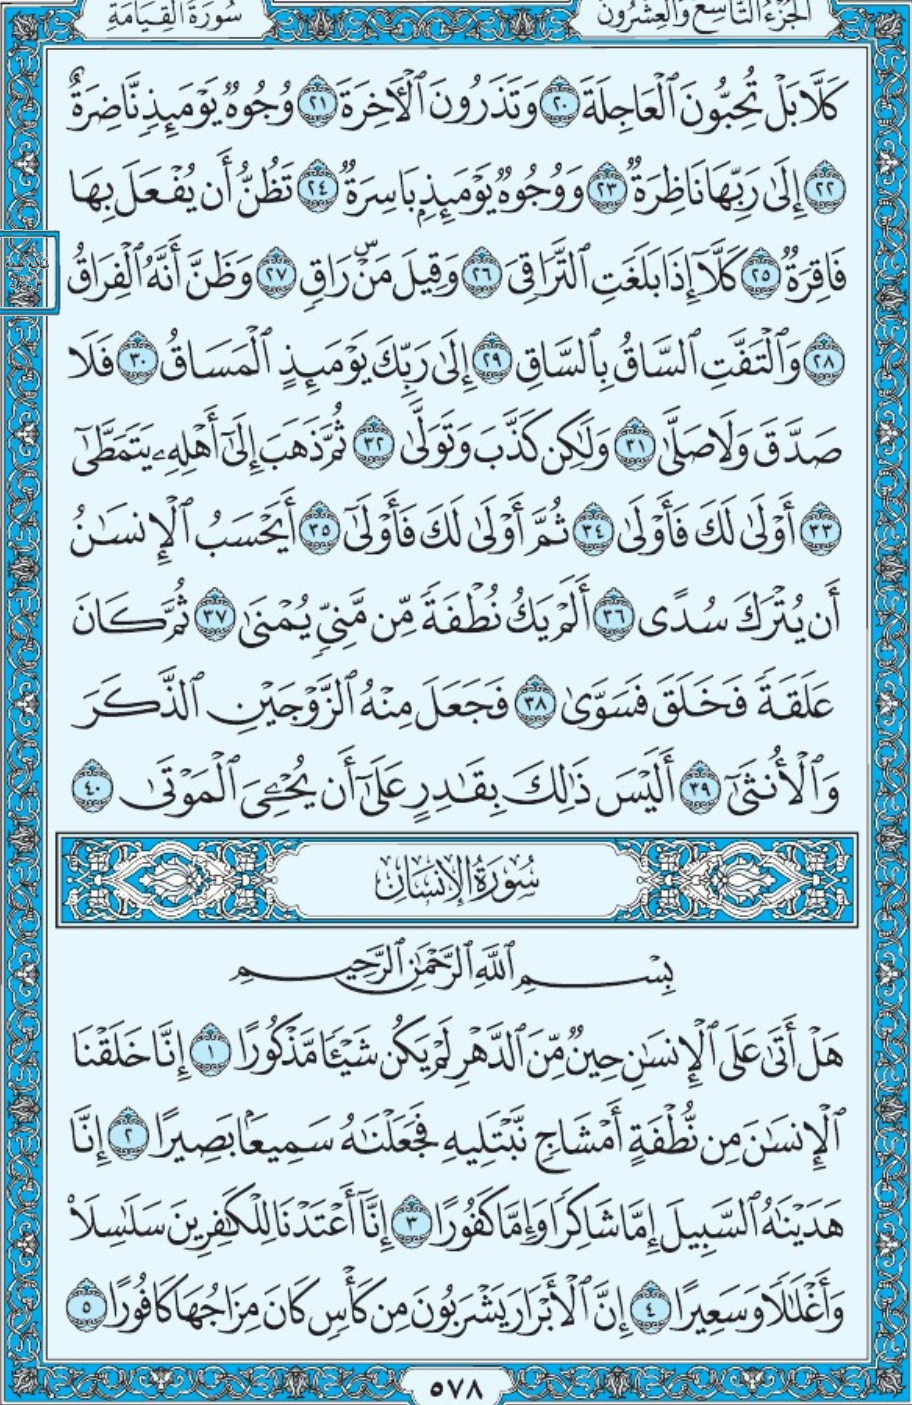
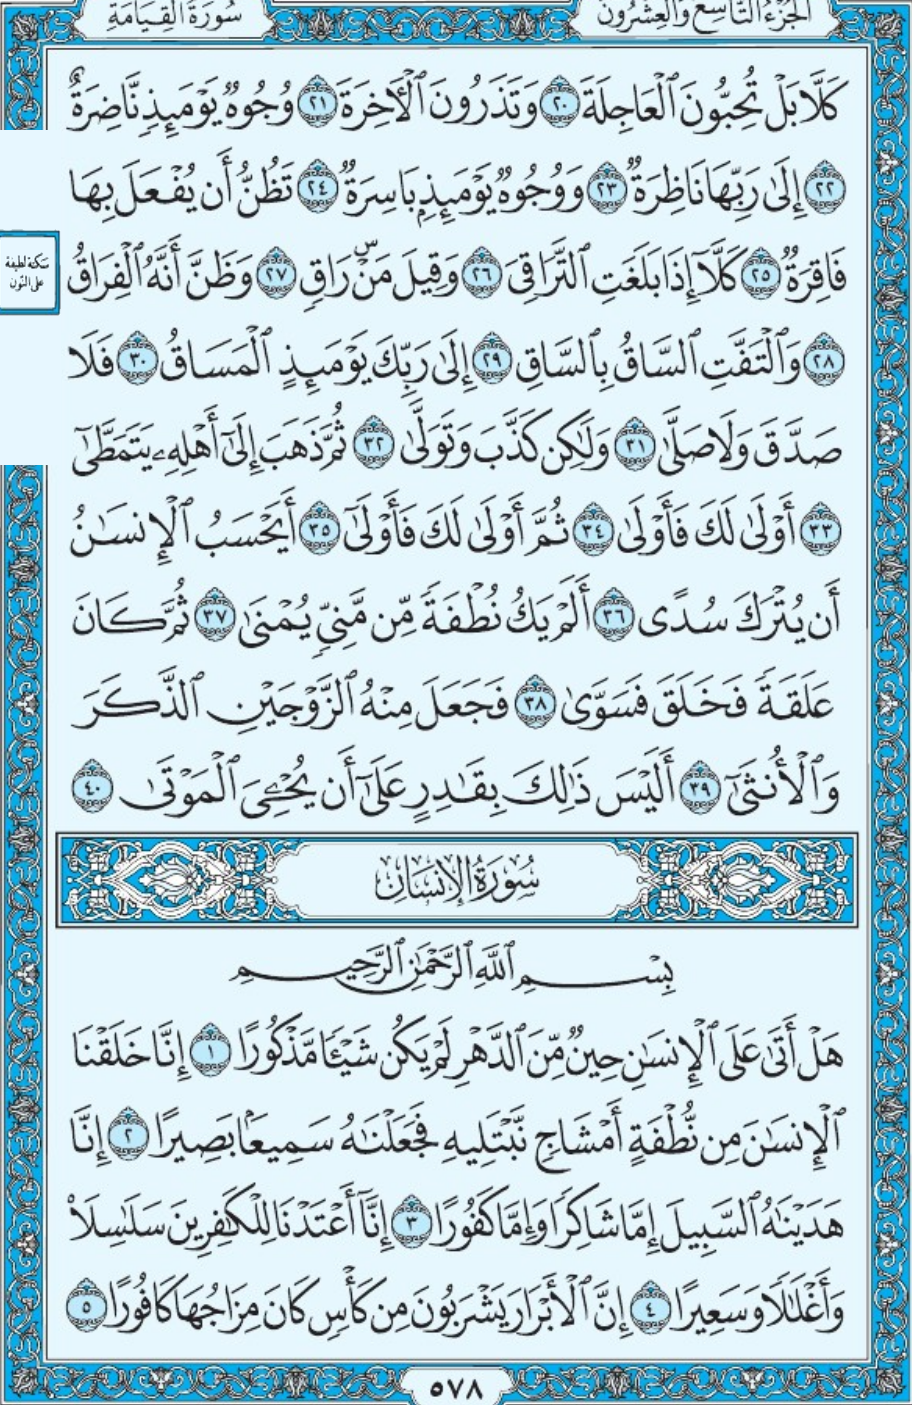
multiple lr white background added

Changed region(s): [[0.0, 0.0918, 0.0614, 0.3367]]

diff --git a/add_bg_in_trans_img.py b/add_bg_in_trans_img.py
@@ -2,7 +2,8 @@ from PIL import Image
 import detect_lr_position
 
 
-def overlay_images(overlay_top_path, output_path, position1=(0, 0), position2=(0, 0)):
+def overlay_images(overlay_top_path, output_path, uniq_detected_points,
+                   position_bg=(0, 0), position2=(0, 0)):
     # Open the background and overlay images
     trans_top_lr = Image.open(overlay_top_path)
 
@@ -16,8 +17,11 @@ def overlay_images(overlay_top_path, output_path, position1=(0, 0), position2=(0
     # Create a copy of the background image
     result = trans_background.copy()
 
-    # Overlay the first image
-    result.paste(white_bg, position1, white_bg)
+    point_count = len(uniq_detected_points)
+    for x in range(0, point_count):
+        # Overlay the white_bg image
+        # result.paste(white_bg, position_bg, white_bg)
+        result.paste(white_bg, (position_bg[0], uniq_detected_points[x][1] - 95), white_bg)
 
     # Overlay the second image
     result.paste(overlay2, position2, overlay2)
@@ -33,10 +37,9 @@ def overlay_image_bg(lr_img_path, trans_img_path, output_img_path):
 
     if len(uniq_detected_points) > 0:
         # if icon available
-        detected_point = uniq_detected_points[0][1]
-
-        overlay_images(trans_img_path, output_img_path,
-                       position1=(0, detected_point - 95), position2=(0, 0))
+        # detected_point = uniq_detected_points[0][1]
+        # - 95
+        overlay_images(trans_img_path, output_img_path, uniq_detected_points)
     else:
         # save same image
         img = Image.open(trans_img_path)

diff --git a/detect_lr_position.py b/detect_lr_position.py
@@ -32,10 +32,10 @@ def get_all_detected_point(loc):
     return uniq_detected_points
 
 
-def template_matching(image_path, save_file_name):
+def template_matching(image_path, save_file_name, sample_path):
     img_rgb = cv2.imread(image_path)
     img_gray = cv2.cvtColor(img_rgb, cv2.COLOR_BGR2GRAY)
-    template = cv2.imread('template/sample3.png', 0)
+    template = cv2.imread(sample_path, 0)
     h, w = template.shape[::]
 
     res = cv2.matchTemplate(img_gray, template, cv2.TM_CCOEFF_NORMED)
@@ -56,7 +56,7 @@ def template_matching(image_path, save_file_name):
         cv2.rectangle(img_rgb, pt, (pt[0] + w, pt[1] + h), (0, 0, 255), 5)  # Red rectangles with thickness 2.
 
     # TODO
-    cv2.imwrite('' + save_file_name, img_rgb)
+    # cv2.imwrite('' + save_file_name, img_rgb)
 
     # cv2.imshow("Matched image", img_rgb)
     # cv2.waitKey()
@@ -68,8 +68,10 @@ def template_matching(image_path, save_file_name):
 
 
 def lr_position_detect(image_path, save_file_name):
-    uniq_detected_points = template_matching(image_path, save_file_name)
+    uniq_detected_points = template_matching(image_path, save_file_name, 'template/sample3.png')
+    uniq_detected_points = uniq_detected_points + template_matching(image_path, save_file_name,
+                                                                    'template/box_sample.png')
     return uniq_detected_points
 
 
-# lr_position_detect("imagesLeft/left-page-028.png", "test.png")
+# lr_position_detect("imagesLeft/left-page-592.png", "test.png")
